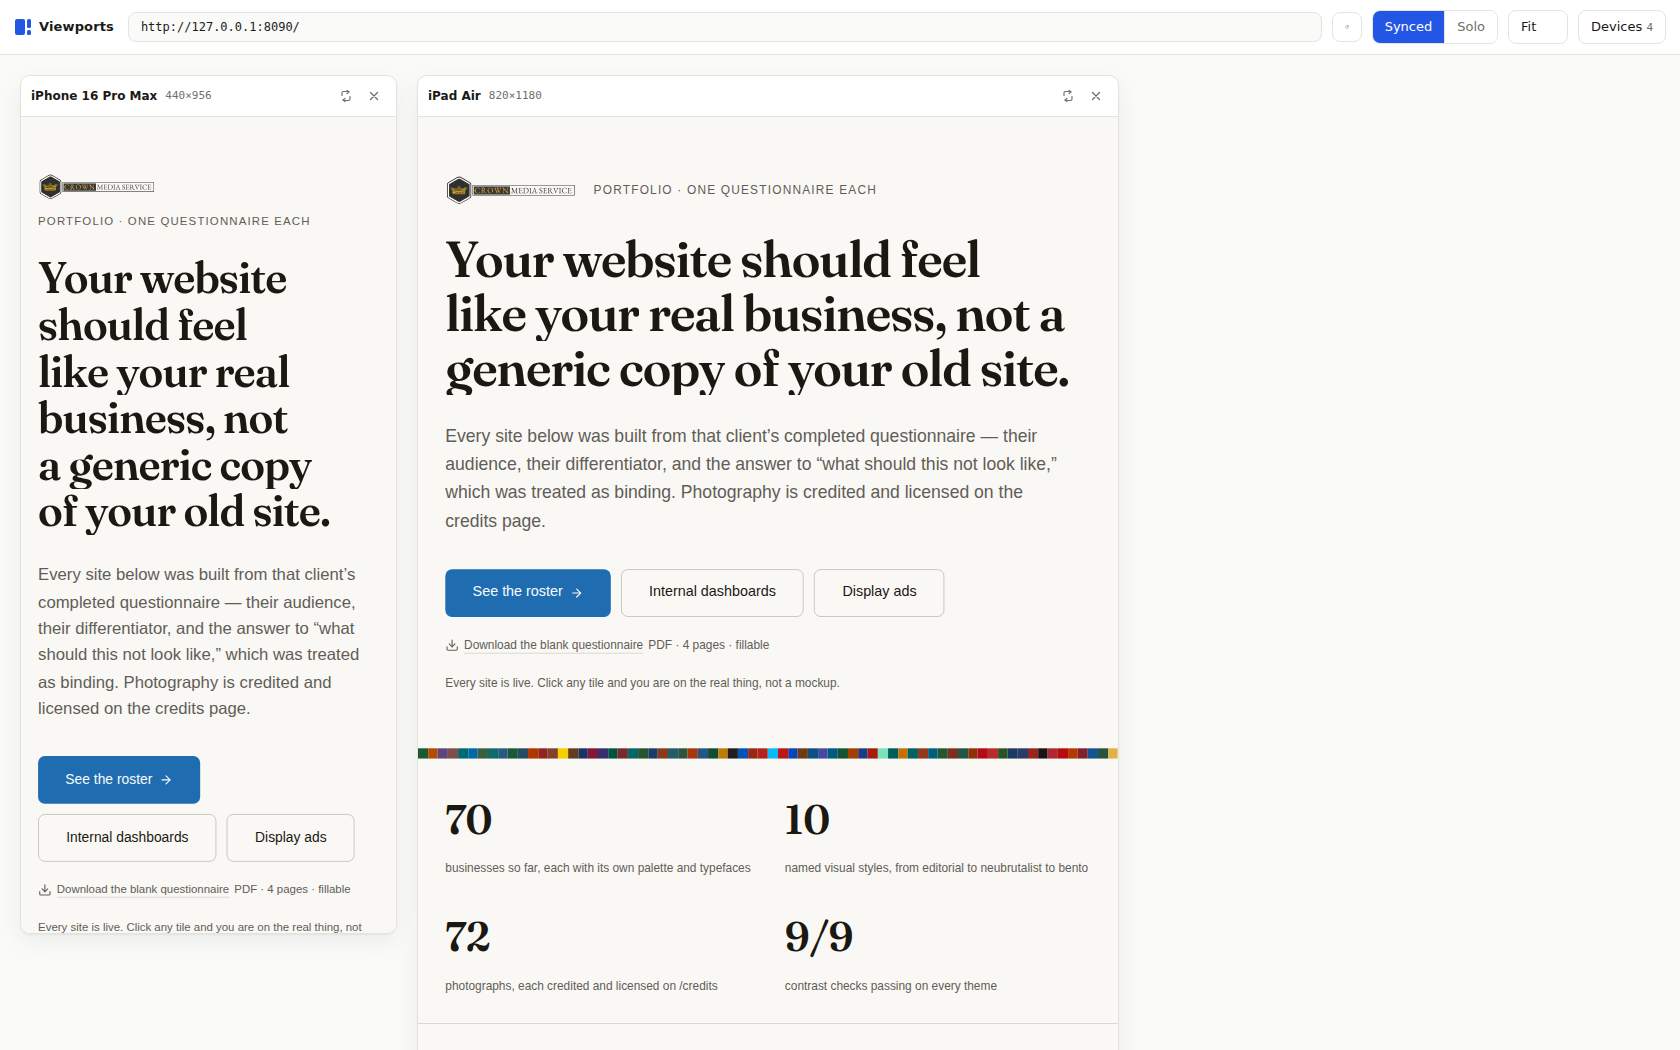
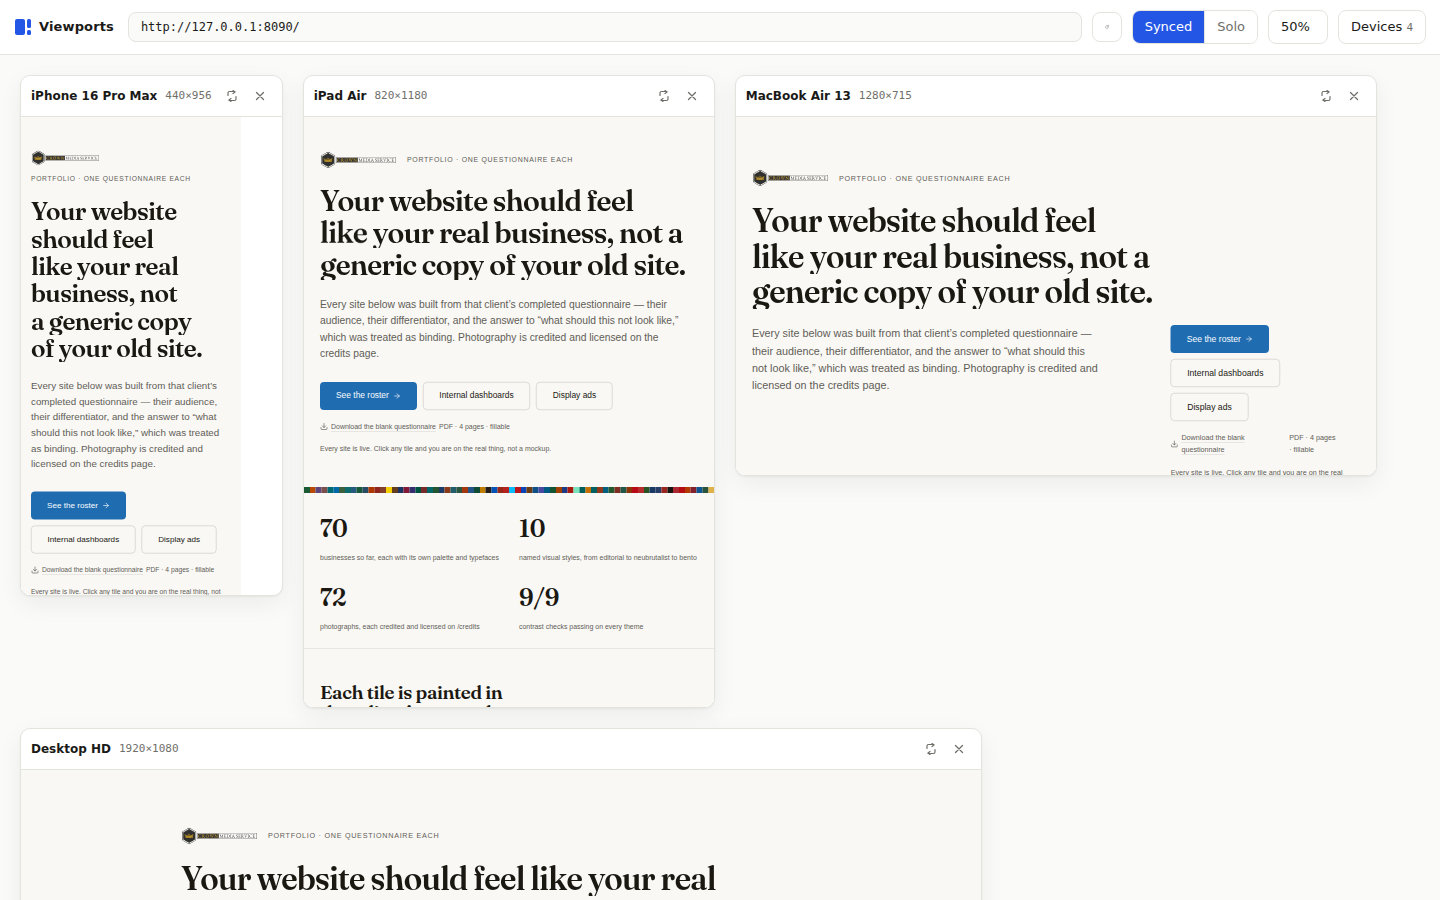
Add demo GIF and screenshot gallery to README
- docs/demo.gif: 17s scripted demo — loading four viewports, synced
  scrolling, adding a device from the picker, rotating a device, and
  Solo mode (800px wide, 8fps, 3.8MB)
- docs/screenshot.png: refreshed hero showing four devices at 50% zoom
- docs/synced-scroll.png: all viewports deep in a page in lockstep
- docs/device-picker.png: the grouped Devices menu
- docs/dark-mode.png: dark theme (viewer and previewed site)
- README: demo GIF up top, new Screenshots section with captions

Claude-Session: https://claude.ai/code/session_01H6AMdtN8kddgh5eXqdLhqX

diff --git a/README.md b/README.md
@@ -8,7 +8,7 @@ and scroll them together or individually.
 No frameworks. No build step. No dependencies. Six small files of vanilla
 JS/CSS, MIT licensed.
 
-![A page previewed simultaneously on iPhone 16 Pro Max and iPad Air, each in its own labeled viewport card](docs/screenshot.png)
+![Demo: a page loading in four device viewports, scrolling in sync, adding a device from the picker, and rotating the iPad](docs/demo.gif)
 
 ## Why
 
@@ -33,6 +33,24 @@ enough to read in one sitting.
   relative device sizes honest; URL bar and reload-all.
 - **Remembers your setup** — device selection, zoom, and scroll mode persist.
 - **Dual-theme UI** — the viewer follows your system light/dark preference.
+
+## Screenshots
+
+*A production site across iPhone, iPad, MacBook and Desktop HD — one tab, one glance:*
+
+![The grid: iPhone 16 Pro Max, iPad Air, MacBook Air 13 and Desktop HD side by side, each showing the same page at its own breakpoint](docs/screenshot.png)
+
+*Synced scrolling — every viewport at the same proportional position, however tall its page is:*
+
+![All four viewports scrolled deep into the page in lockstep](docs/synced-scroll.png)
+
+*The device picker, grouped by category:*
+
+![The Devices menu open, showing phones, tablets, laptops and desktops with checkboxes and dimensions](docs/device-picker.png)
+
+*The viewer follows your system theme — and so does the page, if it supports dark mode:*
+
+![The same grid rendered with the dark viewer theme, the previewed site also in its dark scheme](docs/dark-mode.png)
 
 ## Install
 
